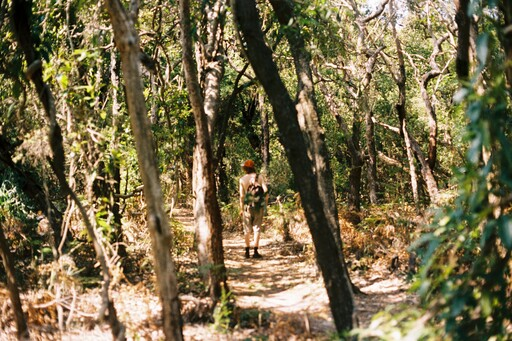
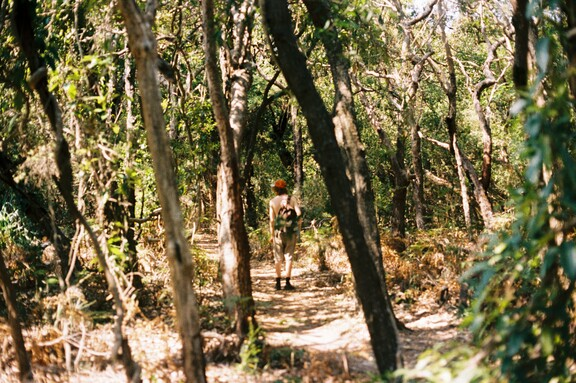
bigger jpegs

diff --git a/index.html b/index.html
@@ -9,7 +9,7 @@
 </head>
 <style>
 * {font-family:monospace;}
-main {width: 576px; margin-left: 16px;}
+main {width: 576px; margin-left: 16px; padding-bottom: 16px;}
 html,body,a,a:visited {background-color:#000 !important;color:#fff !important;}
 img {image-rendering: pixelated;}
 a:hover{text-decoration: dashed 1px underline;}
@@ -22,7 +22,8 @@ a:hover{text-decoration: dashed 1px underline;}
 <p><h1><i>hey. when were you last seen by the stars? i hope you can be, wherever you are now, or i hope you can be very soon.</i></h1></p>
 <img alt="quantised memories" src="murmuries.png" width="384" height="620" loading="lazy">
 <pre style="margin: 0">
-<span role="img" alt="tail of the star">
+<!-- tail of the star -->
+<span role="img" alt="">
                               . ....
                               .....
                               .....
@@ -65,7 +66,7 @@ a:hover{text-decoration: dashed 1px underline;}
 <!-- <p><a class="loqui" href="dreams/index.md"></a></p> -->
 <p>thanks for visiting this garden. for now, it is  <a href="./etc/mostlywind/garden.html">mostly wind.</href></p>
     <ul class="aster">
-        <li class="aster"><a class="aster" href="https://www.youtube.com/@eatallyourdarlings">see you later, stardog</a></li>
+        <li class="aster"><a class="aster" target="_blank" href="https://www.youtube.com/@eatallyourdarlings">see you later, stardog</a></li>
     </ul>
 </main>
 </body>
